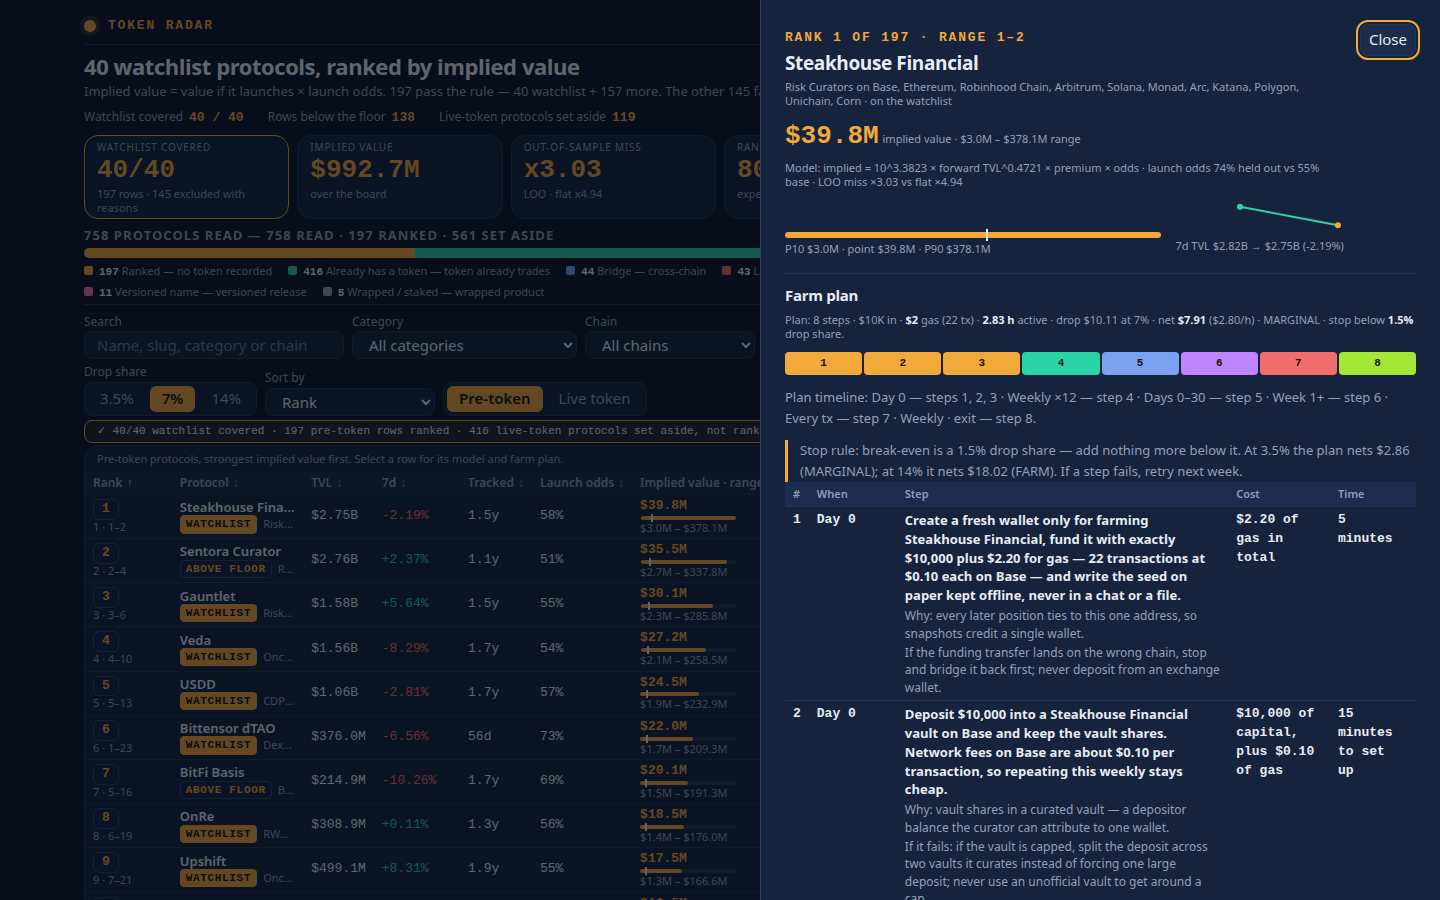
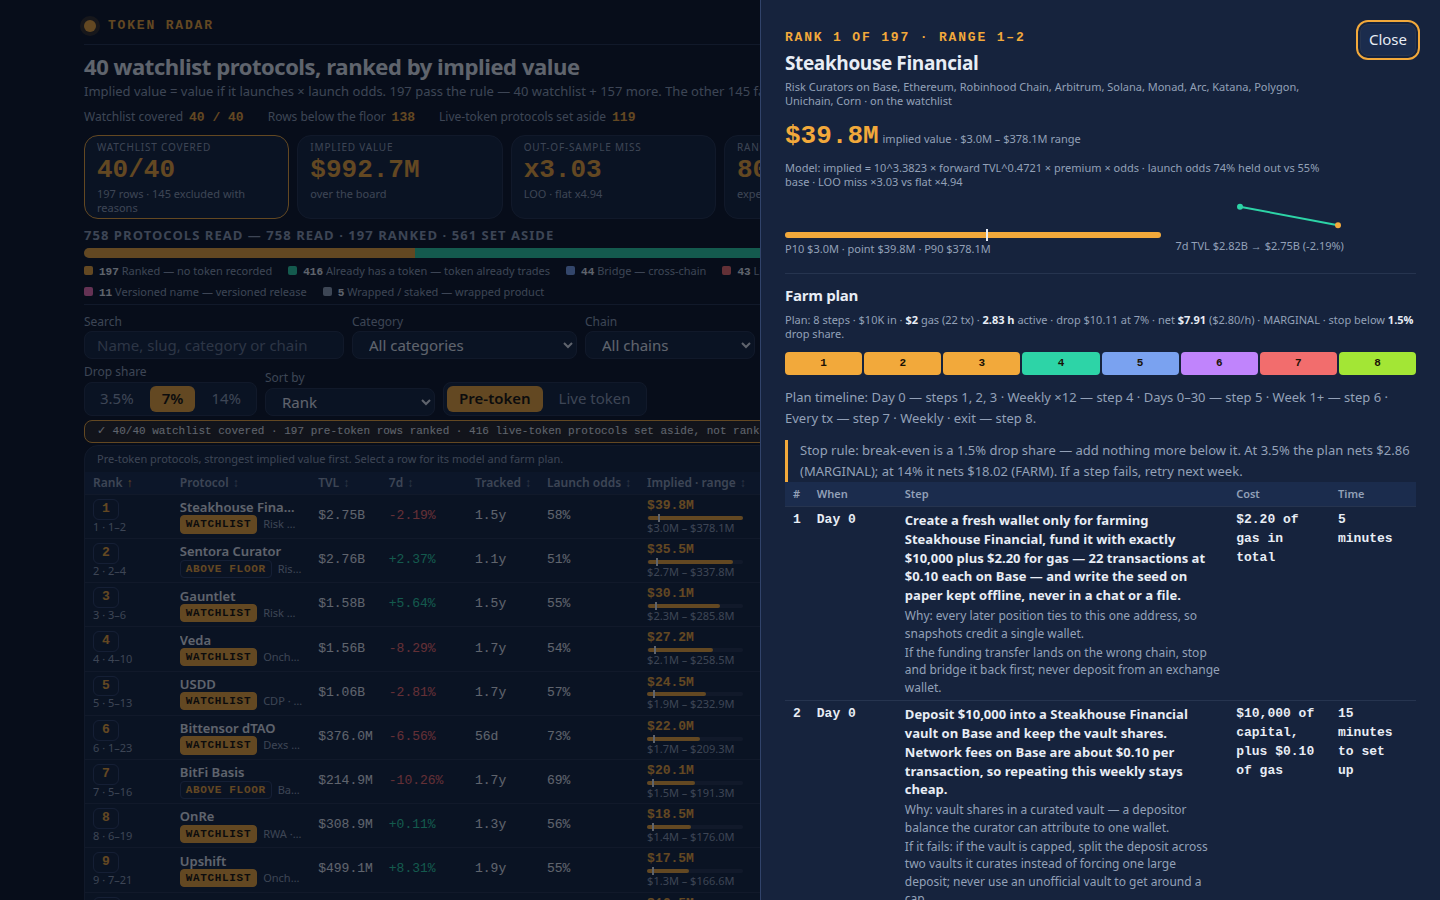
token-radar-01: comps-13 — quotable farm-plan figures on the board row (C3/C4 ours-second vs rank1); model unchanged
Every board row now quotes its farm economy in two lines, live from the
row: net + net-per-hour ('$7.91 $2.80/h', moves with Deposit/Drop-share
selection) and verdict + fees + stop-rule break-even ('MARGINAL $2.20 ·
stop 1.5%'). The board alone now wins the glance test without opening the
detail view — the one gap the comps-12 sim left (C3/C4 ours-second vs rank1
0.53/0.47). Width funded by dropping the constant '· 2.8h' token
(time_hours is 2.83 on all 197 rows; time still shown as $/h and in the
detail view) and shortening the 'Implied value · range' header to
'Implied · range'; names stay at comps-12 levels, 9 rows in shot 1.
Net +113B: dashboard 65,159B, dossier text 65,428B (headroom 108B).
Gate 16/16 PASS; two builds byte-identical; board.json/data.js identical
to comps-12. comps-7 stays the submit candidate pending the comps-13 sim.

diff --git a/dashboard/app.js b/dashboard/app.js
@@ -227,7 +227,7 @@ $('caption').textContent = pre
 ? 'Pre-token protocols, strongest implied value first. Select a row for its model and farm plan.'
 : 'Token live: these protocols already trade, so their market cap is a fact, not a model. They are set aside from the pre-token ranking.';
 if (pre) {
-head.innerHTML = '<tr>' + th('rank', 'Rank') + th('name', 'Protocol') + th('tvl', 'TVL') + th('growth', '7d') + th('age', 'Tracked') + th('implied', 'Launch odds') + th('implied', 'Implied value · range') + th('net', 'Net · farm cost') + '</tr>';
+head.innerHTML = '<tr>' + th('rank', 'Rank') + th('name', 'Protocol') + th('tvl', 'TVL') + th('growth', '7d') + th('age', 'Tracked') + th('implied', 'Launch odds') + th('implied', 'Implied · range') + th('net', 'Net · farm cost') + '</tr>';
 var total = list.reduce(function (s, r) { return s + (r.implied_value_usd || 0); }, 0);
 $('count').textContent = list.length + ' of ' + rowsAll.length + ' rows · ' + fmtUsd(total) + ' implied in view · sorted by ' + state.sort;
 } else {
@@ -240,7 +240,7 @@ if (pre) {
 var max = rowsAll.reduce(function (m, r) { return Math.max(m, r.value_high_usd || r.implied_value_usd || 0); }, 1);
 tbody.innerHTML = list.map(function (r) {
 var g = r.change_7d === null || r.change_7d === undefined ? '' : (r.change_7d >= 0 ? 'pos' : 'neg');
-var v = verdictSel(r), n = netSel(r);
+var v = verdictSel(r), n = netSel(r), nph = r.time_hours ? n / r.time_hours : 0;
 var range = (r.rank_low !== undefined) ? r.rank + ' · ' + r.rank_low + '–' + r.rank_high : String(r.rank);
 var odds = fmtPct100(chainOf(r).odds);
 var ch0 = (r.chains || [])[0] || '', chN = (r.chains || []).length - 1;
@@ -253,7 +253,7 @@ return '<tr data-slug="' + esc(r.slug) + '" data-selected="' + (state.selected =
 '<td class="num">' + esc(fmtAge(r.age_days)) + '</td>' +
 '<td class="num">' + esc(odds) + '</td>' +
 '<td><div class="implied"><span class="num">' + esc(fmtUsd(r.implied_value_usd)) + '</span>' + rangeBar(r, max) + '<span class="sub">' + esc(fmtUsd(r.value_low_usd)) + ' – ' + esc(fmtUsd(r.value_high_usd)) + '</span></div></td>' +
-'<td><div class="netcell"><span class="num ' + vClass(v) + '">' + esc(fmtNet(n)) + '</span><span><span class="' + vClass(v) + '">' + esc(v) + '</span> <span class="sub">' + esc(fmtNet(r.fees_usd)) + ' · ' + (r.time_hours || 0).toFixed(1) + 'h</span></span></div></td></tr>';
+'<td><div class="netcell"><span><span class="num ' + vClass(v) + '">' + esc(fmtNet(n)) + '</span> <span class="sub">' + esc(fmtNet(nph)) + '/h</span></span><span><span class="' + vClass(v) + '">' + esc(v) + '</span> <span class="sub">' + esc(fmtNet(r.fees_usd)) + ' · stop ' + (r.breakeven_share * 100).toFixed(1) + '%</span></span></div></td></tr>';
 }).join('');
 } else {
 tbody.innerHTML = list.map(function (r) {

diff --git a/README.md b/README.md
@@ -6,9 +6,9 @@
 
 A token launch radar: it reads a sealed DefiLlama snapshot of 758 protocols and writes a web dashboard that ranks the 197 pre-token, standalone protocols by what their launch would be worth, each with a costed farm plan and a FARM / MARGINAL / SKIP verdict.
 
-## The model ("comps-12" — comps-11 + the ranked angles from the comps-11 sim: the 40/40 · 197 · 145-excluded coverage figures as the biggest KPI on the board (C1), a quotable one-line farm plan with bold cost/time in the detail view (C3), and a visible sort arrow on every sortable column header (C4); model unchanged, board stays 197)
+## The model ("comps-13" — comps-12 + the one real gap from the comps-12 sim: quotable farm-plan figures on the board row itself (C3/C4 ours-second vs rank1), so the board alone wins the glance test without opening the detail view; model unchanged, board stays 197)
 
-comps-12 keeps the comps-11 model and layout and attacks the three weak cells from the comps-11 sim: the first KPI tile is now "WATCHLIST COVERED 40/40 — 197 rows · 145 excluded with reasons" (live from the accounting, amber-bordered); every detail view opens with a quotable plan line ("8 steps · $2.20 gas · 2.83h active · stop below 1.5% drop share", live from the row) with bold per-step Cost/Time; and every sortable header shows an arrow (amber ↑/↓ on the active sort, faint ↕ elsewhere). The 198th row does not exist under our own rules: all 145 excluded pre-token protocols fail at least one rule, so the board stays 197 rows. See MODEL_NOTES.md.
+comps-13 keeps the comps-12 model and layout and attacks the one gap the comps-12 sim left open: every board row now carries its farm plan in quotable figures — net per hour beside the net ("$7.91 $2.80/h") and the stop-rule break-even beside the verdict ("MARGINAL $2.20 · stop 1.5%"), both live from the row's own data, so the board alone answers "what do I make, per hour, and when do I stop" without opening the detail view. The 198th row does not exist under our own rules: all 145 excluded pre-token protocols fail at least one rule, so the board stays 197 rows. See MODEL_NOTES.md.
 
 Implied value follows from the snapshot's own figures — no hardcoded names:
 
